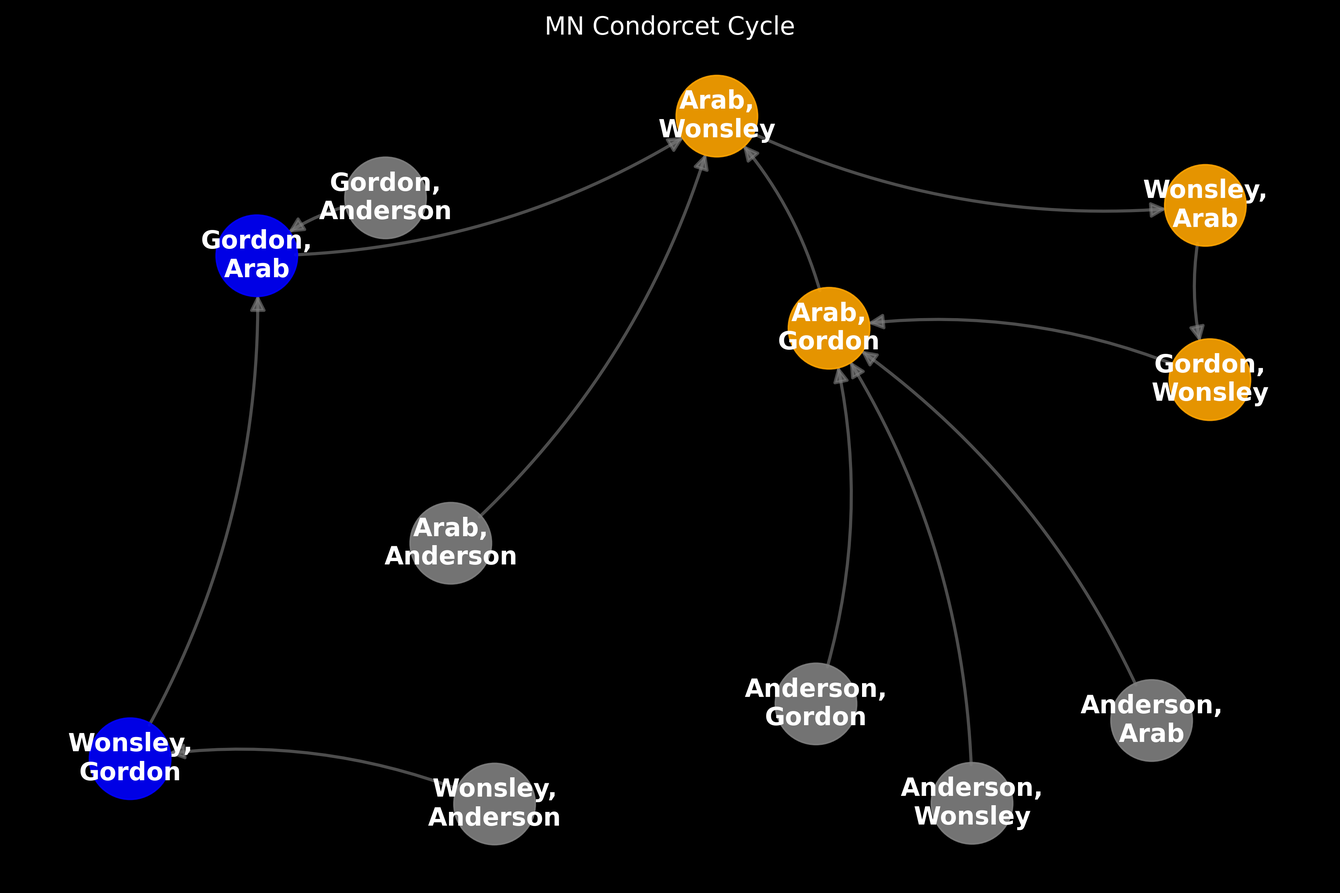
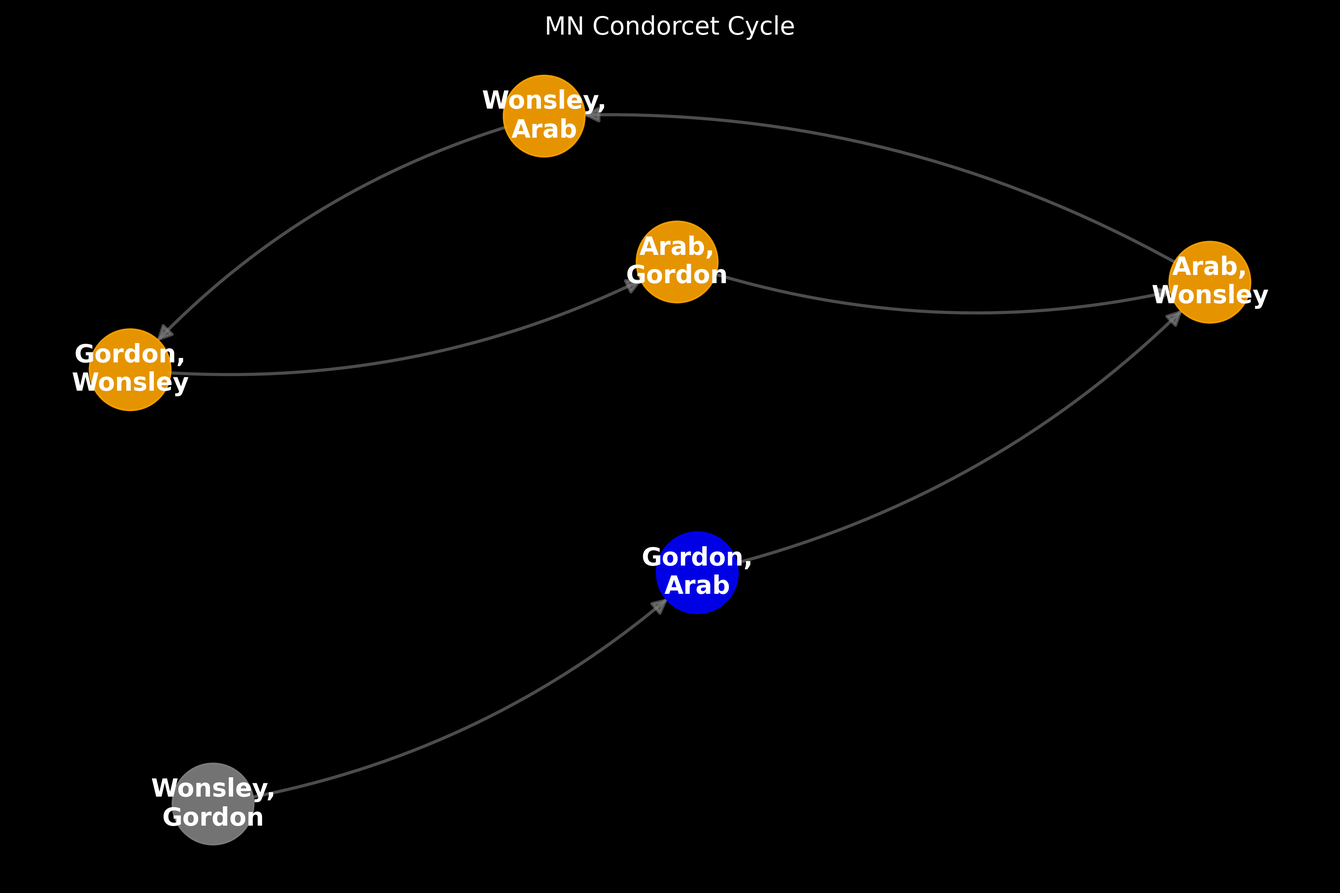
Expand leader-rule draft with case studies and images
Revise leader-rule preview: add WIP note, attribution to Laslier, clarify definitions and assumptions, strengthen proofs, add new lemmas/corollaries and an appendix with a counterexample. Add detailed Case Studies (Alaska 2022, NYC 2025, Minneapolis 2021) with tables, graphs and discussion; clarify pairwise/CPRO notation and dynamics. Add new asset assets/img/leader_rule/alt_profile.png and update assets/img/leader_rule/mn.png to support the new examples and visuals.

diff --git a/_previews/2026-02-11-leader-dynamics.md b/_previews/2026-02-11-leader-dynamics.md
@@ -17,7 +17,7 @@ authors:
 toc:
   - name: Introduction
   - name: The Leader Rule
-  - name: A Practical Simulation 
+  - name: Case Studies
     subsections:
       - name: Alaska House Special Election 2022
       - name: NYC Democratic Mayoral Primary 2025
@@ -30,9 +30,11 @@ toc:
   - name: References
 ---
 
+WIP DRAFT (not finished)
+
 ## Introduction
 
-The Leader Rule is a strategy under approval voting where voters choose their sincere strategy based on who the perceived frontrunners are:
+The Leader Rule is a strategy under approval voting by Jean-François Laslier where voters choose their sincere strategy based on who the perceived frontrunners are:
 
 > **The Leader Rule**: Call the candidate perceived most likely to win the "leader", and the second most likely candidate to win the "challenger". The leader rule strategy is as follows:
 >
@@ -41,7 +43,7 @@ The Leader Rule is a strategy under approval voting where voters choose their si
 
 We will not delve into the weeds of why this is an optimal strategy, but our analysis focuses on what happens when every voter applies the leader rule simultaneously.
 
-**Definition**: We denote the percentage of voters who prefer X>Y as $$P(X>Y)$$. Note that $$P(Y>X)=1-P(X>Y)$$.
+**Definition**: We denote the proportion of voters who prefer X>Y as $$P(X>Y)$$, as a shorthand for $$P(X>Y|\text{profile})$$. Note that $$P(Y>X)=1-P(X>Y)$$.
 
 For our axioms of this analysis, we assume
 
@@ -49,9 +51,11 @@ For our axioms of this analysis, we assume
 2. Voters always use sincere strategies. That is, if they prefer candidate X over Y, then whenever they approve candidate Y, they must approve candidate X.
 3. Voters have common knowledge of the perceived front-runners. That is, every voter knows who the leader and challenger are perceived to be.
 4. Every voter applies the leader rule simultaneously.
-5. No two pairwise match-ups have the same margin. That is, for any two pairs of candidates, $$(X_1, Y_1) \neq (X_2, Y_2)$$, then $$P(X_1>Y_1)\neq P(X_2>Y_2)$$.
+5. No two pairwise match-ups have the same margin, and no two candidates tie. That is, for any two pairs of candidates, $$(X_1, Y_1) \neq (X_2, Y_2)$$, then $$P(X_1>Y_1)\neq P(X_2>Y_2)$$, and $$P(X_1>Y_1)\neq 0.5$$. In a "large electorate",  which is the setting Laslier focuses on in his paper, this is a reasonable assumption, since the probability of ties goes to zero as the number of voters increases.
 
 We identify the set of possible leader challenger pairs $$(X,Y)$$, where $$X\neq Y$$, as state nodes. We can imagine them as what the polls say prior to an election. We investigate the nature of how one node moves to another.
+
+Note that Theorems 1 and 2 are adapted from Laslier's original paper. The rest of the theorems and lemmas are new so far as I know.
 
 **Theorem 1:** Suppose the leader, challenger pair is (X,Y). After every voter applies the leader rule, the candidates will have the following percent approvals:
 
@@ -67,7 +71,7 @@ Note that for any candidate X, after every voter applies the leader rule, the pe
 
 **Definition:** a unique Condorcet winner is a candidate who strictly defeats every other candidate in pairwise comparisons. That is, if X is a unique Condorcet winner, then for every other candidate Z, $$P(X>Z) > 0.5$$. Thus, $$P(Z>X) < 0.5$$ for all $$Z \neq X$$. A Condorcet loser is a candidate who is strictly defeated by every other candidate in pairwise comparisons.
 
-**Lemma 1:** If X is a unique Condorcet winner, then after every voter applies the leader rule, X will always have over 50% of the vote. Further, if the X is the leader, then X will still be the leader after every voter applies the leader rule.
+**Lemma 1:** If X is a unique Condorcet winner, then after every voter applies the leader rule, X will always have over 50% of the vote. Further, if the X is the leader and a unique Condorcet winner, then X will still be the leader after every voter applies the leader rule.
 
 **Proof:** As the unique Condorcet winner, $$P(X>Z) > 0.5$$ for all $$Z \neq X$$. Since the percent of votes X gets must be some $$P(X>Z)$$ for some candidate Z, then X must receive over 50% of the vote.
 
@@ -75,25 +79,52 @@ Suppose that X is the leader and Y is the challenger. Since $$P(Z>X)<0.5$$ for a
 
 **Theorem 2:** (X,Y) is an equilibrium if and only if X is a unique Condorcet winner and Y is the candidate with the best pairwise matchup against X.
 
-**Proof:** By the lemma, if X is a unique Condorcet winner, then X will remain the leader after every voter applies the leader rule. Therefore, we know that (X,Y) has an edge to (X,Y') for some Y' such that the votes $$P(Y'>X) > P(Z>X)$$ for all $$Z \notin\{X,Y'\}$$. That is, Y' must have the best pairwise matchup against X. Therefore, if Y is the candidate with the best pairwise matchup against X, then (X,Y) is an equilibrium. For uniqueness, we use our assumption that no two pairwise match-ups have the same margin, so there must be one unique Y' with the best pairwise matchup. For any other $$Y\neq Y'$$, we must have that $$P(Y>X) < P(Y'>X)$$, meaning (X,Y) must have an edge to (X,Y'). Therefore, it is the only equilibrium. QED
+**Proof:** By the lemma, if X is a unique Condorcet winner, then X will remain the leader after every voter applies the leader rule. Therefore, we know that (X,Y) has an edge to (X,Y') for some Y' such that the votes $$P(Y'>X) > P(Z>X)$$ for all $$Z \notin\{X,Y'\}$$. That is, Y' must have the best pairwise matchup against X. Therefore, if Y is the candidate with the best pairwise matchup against X, then (X,Y) is an equilibrium.
 
-**Definition:** We define the set of "Leader Rule Outcome Nodes" to be the nodes with at least one edge to them. We call the candidates who are the leader in at least one Leader Rule Outcome Node to be a "Leader Rule Outcome".
+Suppose now that (X,Y) is an equilibrium. Then we must have that $$P(X>Y) > P(Y>X) > P(Z>X)$$ for all $$Z \neq X$$. Since $$P(X>Y) > 0.5 > P(Y>X)$$, we must have that $$P(Z>X) < 0.5$$ for all $$Z \neq X$$, meaning X is a unique Condorcet winner. Since $$P(Y>X) > P(Z>X)$$ for all $$Z \notin\{X,Y\}$$, we must have that Y is the candidate with the best pairwise matchup against X. QED
+
+**Corollary 1:** If there is no unique Condorcet winner, then there is no equilibrium.
+
+In this case, there must instead be a cycle of nodes, where each node has an edge to another node, and the last node has an edge back to the first node. There is no stable leader-challenger pair in this case, however, the election must still occur eventually. We focus on the general dynamics of the leader rule to make conclusions about the possible outcomes in this case.
 
 **Lemma 2:** If every voter applies the leader rule, then at least one candidate will have more than 50% of the vote.
 
-**Proof:** If there exists a unique Condorcet winner, then by the previous lemma, that candidate will have over 50% of the vote after every voter applies the leader rule. If there is no unique Condorcet winner, then there must exist some candidate Z who defeats the leader X in a pairwise match-up: $$P(Z>X)>0.5>P(X>Z)$$. Therefore, Z will have more than 50% of the vote. QED
+**Proof:** If there exists a unique Condorcet winner, then by the previous lemma, that candidate will have over 50% of the vote after every voter applies the leader rule. If there is no unique Condorcet winner, then there must exist some candidate Z who defeats the leader X in a pairwise match-up: $$P(Z>X)>0.5>P(X>Z)$$. Therefore, Z will have more than 50% of the vote after every voter applies the leader rule. QED
 
 **Lemma 3:** If X is a Condorcet loser, then X will never be the leader after all voters apply the leader rule. Further, X will always have less than 50% of the vote.
 
-**Proof:** If X is a Condorcet loser, then $$P(X>Z) < 0.5$$ for all $$Z \neq X$$, and thus X will always have less than 50% of the votes. By the previous lemma, some candidate must have over 50% of the vote, and will thus have more votes than X. Therefore, X will not be the leader.
+**Proof:** If X is a Condorcet loser, then $$P(X>Z) < 0.5$$ for all $$Z \neq X$$, and thus X will always have less than 50% of the votes by Theorem 1. By the previous lemma, some candidate must have over 50% of the vote, and will thus have more votes than X. Therefore, X will not be the leader.
 
-**Corollary 1:** If X is a unique Condorcet winner, then X is a Leader Rule Outcome. If X is a Condorcet loser, then X is not a Leader Rule Outcome.
+These two lemmas do tell us something important: even if there is a cycle of preferences, when the elections finally comes around and voters apply the leader rule, we can guarantee that
 
-**Proof:** By the previous theorem, we know that (X,Y) is an equilibrium if and only if X is a unique Condorcet winner and Y is the candidate with the best pairwise matchup against X. Therefore, if X is a unique Condorcet winner, there exists at least one equilibrium node, which has an edge to itself, where X is the leader, making X a Leader Rule Outcome. Conversely, if X is a Condorcet loser, by Lemma 3, X will never be the leader after all voters apply the leader rule, so X is not a Leader Rule Outcome. QED
+1. The winner will win with over 50% of the vote
+2. The winner won't be a Condorcet loser
+
+Further, due to the nature of the Approval ballot data, the winner is always the Condorcet winner  induced by the literal dichotomous preferences expressed by the voters. That is, since the difference in total approvals is the difference in "strict approvals", the winner must defeat all other candidates in strict approvals. Any Condorcet cycle will be invisible in the ballot data, and instead voters will only see a single candidate with the most approvals (over 50%), who is the Condorcet winner of the strict approvals.
+
+**Definition:** We define the set of "Leader Rule Outcome Nodes" to be the nodes with at least one edge to them. We call the candidates who are the leader in at least one Leader Rule Outcome Node to be a "Leader Rule Outcome".
+
+**Corollary 2:** If X is a unique Condorcet winner, then X is a Leader Rule Outcome. If X is a Condorcet loser, then X is not a Leader Rule Outcome.
+
+**Proof:** By theorem 2, we know that (X,Y) is an equilibrium if and only if X is a unique Condorcet winner and Y is the candidate with the best pairwise matchup against X. Therefore, if X is a unique Condorcet winner, there exists at least one equilibrium node, which has an edge to itself, where X is the leader, making X a Leader Rule Outcome. Conversely, if X is a Condorcet loser, by Lemma 3, X will never be the leader after all voters apply the leader rule, so X is not a Leader Rule Outcome. QED
+
+**Lemma 4:** Candidate X is a Leader Rule Outcome if and only if one of the following holds:
+
+1. X has a pairwise match-up against some candidate Y that is stronger than any pairwise match-up against X. That is, there exists some Y such that $$P(X>Y) > P(Z>X)$$ for all $$Z \neq X$$.
+2. X has the strongest pairwise match-up against some candidate $$Y \neq X$$, and that match-up is stronger than Y's match-up against some candidate $$Y'\neq Y$$. That is, there exists some Y such that $$P(X>Y) > P(Z>Y)$$ for all $$Z \neq X$$ and there exists some Y' such that $$P(X>Y) > P(Y>Y')$$ for some Y'.
+
+**Proof:** If condition 1 holds, then consider the node (X,Y). We have that $$P(X>Y) > P(Z>X)$$ for all $$Z \neq X$$, so X will have the most votes after every voter applies the leader rule, making X the leader. Note that condition 1 holds when X is a unique Condorcet winner, since $$P(X>Z) > 0.5 > P(Z>X)$$ for all $$Z \neq X$$. If condition 1 does not hold, then for all Y, there exists some Z such that $$P(Z>X) > P(X>Y)$$, meaning that (X,Y) cannot have an edge to any node where X is the leader. That is, no node where X is the leader can have an edge to a node where X is the leader.
+
+If condition 2 holds, then consider the node (Y,Y'). We have that $$P(X>Y) > P(Z>Y)$$ for all $$Z\notin\{X,Y\}$$, so X will have more votes than all candidates other than Y after every voter applies the leader rule. However, since $$P(X>Y) > P(Y>Y')$$, X will have more votes than Y as well, making X the leader. If condition 2 does not hold, then for all nodes where X is not the leader, (Y,Y') where $$Y \neq X$$, there exists some Z such that $$P(Z>Y) > P(X>Y)$$, meaning that (Y,Y') cannot have an edge to any node where X is the leader. That is, no node where X is not the leader can have an edge to a node where X is the leader. QED
+
+In short, we have essentially two archetypes for a candidate to be a Leader Rule Outcome:
+
+1. A candidate on the offense (TODO: is this the best intuitive phrasing?): they beat some candidate by a stronger margin than any candidate beats them. This is the case of a unique Condorcet winner, but it can also be the case for a non-Condorcet winner if they have a sufficiently strong match-up against some candidate.
+2. A candidate who strongly counters another candidate: they have the strongest match-up against some candidate, and that match-up is stronger than that candidate's match-up against some other candidate. Intuitively, this means that the electorate may have a strong "reaction" against some leader Y, and X is more strongly preferred to Y than Y is to whoever the challenger is.
 
 ## Pairwise Rankings
 
-**Definition:** A "Pairwise Ranked Ordering" is an ordered list: 1. $$X_1 > Y_1$$. 2. $$X_2>Y_2$$. etc. A "Coherent Pairwise Ranked Ordering" (CPRO) is one that does not contain contradictions. For example, if A>B is the strongest pairwise margin at the top of the list, then B>A must be the weakest, at the bottom of the list. More generally, if we have m total candidates, and a list of the $$\ell=m(m-1)$$ pairwise match-ups, then if item $$i$$ is $$X>Y$$, then $$Y>X$$ must be item $$\ell-i$$. Since a CPRO is uniquely determined by the first half of the list, we sometimes omit the second half for brevity.
+**Definition:** A "Pairwise Ranked Ordering" is an ordered list: 1. $$X_1 > Y_1$$. 2. $$X_2>Y_2$$. etc. A "Coherent Pairwise Ranked Ordering" (CPRO) is one that does not contain contradictions. For example, if A>B is the strongest pairwise margin at the top of the list, then B>A must be the weakest, at the bottom of the list. More generally, if we have m total candidates, and a list of the $$\ell=m(m-1)$$ pairwise match-ups, then if item $$i$$ is $$X>Y$$, then $$Y>X$$ must be item $$\ell-i+1$$. Since a CPRO is uniquely determined by the first half of the list, we sometimes omit the second half for brevity.
 
 **Theorem 3:** The graph of state nodes is determined uniquely by the ranked ordering of pairwise match-up strengths (the CPRO).
 
@@ -155,6 +186,8 @@ In total, this gives
 - BCA: 3 voters
 - CAB: 5 voters
 
+In summary, this tells us that we can analyze the possible graphs by instead considering the possible CPROs.
+
 **Definition:** We define the pairwise matrix such that entry (i,j) represents the number of voters who prefer candidate i over candidate j. We define the diagonal entries to be zero.
 
 The pair-wise matrix for the above profile is as follows: Entry the row candidate is the one preferred over the column candidate.
@@ -176,7 +209,7 @@ Let us apply the algorithm on the CPRO to determine the edges of the graph, for 
 5. A>C
 6. B>A
 
-Let us consider the (A,B) node. We look for A>B or X>A, since A is the leader. We see that the first entry is A>B, so A will be the leader. The second entry is C>A, so C will be the challenger.
+Let us consider the (A,B) node. We look for A>B or X>A, since A is the leader. We see that the first entry is A>B, so A will be the leader. The second entry is C>A, so C will be the challenger. Thus, (A,B) has an edge to (A,C).
 
 **Theorem 5:** The pairwise matrix can be used to determine the precise votes or percents that each candidate will get after voters apply the leader rule at a particular node.
 
@@ -212,9 +245,119 @@ If we have a leader who is not D, then at least one candidate will have a strong
 
 In particular, we can see that there will be a cycle (A,D) to (C,D) to (B,D) and back to (A,D). QED
 
+<img src="/assets/img/leader_rule/alt_profile.png" alt="Leader Rule Non-Convergence Example" style="max-width: 600px;">
+
+## Case Studies
+
+We shall analyze three elections using ranked.vote pairwise data, to see what the leader rule dynamics would have looked like in those elections. The percentages are based on the head-to-head matchups of voters who expressed a preferences, which may not extend to the entire electorate. For example, in the 2025 NYC election, a large proportion of voters who voted for Cuomo bullet voted for him, and thus did not express a preference between Zohran Mamdani and Brad Lander. Therefore, the nearly 70% head-to-head result for Mamdani vs. Lander may not be representative of the entire electorate, but rather only of the subset of voters who expressed a preference between those two candidates. However, we use a simplifying assumption that the head-to-head results are representative of the entire electorate, to get a rough picture of the leader rule dynamics in these elections, along with the other axioms we have laid out in the introduction.
+
+### Alaska House Special Election 2022
+
+[ranked.vote page for this election](https://ranked.vote/report/us/ak/2022/08/cd){:target="_blank"}.
+
+Alaska's 2022 House Special Election was a controversial election where the IRV winner, Mary Peltola, was not the Condorcet winner, and lost to the Condorcet winner, Nick Begich III, in a head-to-head match-up. The third candidate, Sarah Palin, was the Condorcet loser. The election was widely seen as a failure of IRV, and led to a backlash against IRV in Alaska, with the state failing to repeal it by only about 700 voters out of over 320,000 votes cast in the 2024 ballot measure. Another repeal effort is currently underway in 2026.
+
+An aspect of the pathology was the uninutive vote splitting and spoiler effect that occured between the Republican candidates. The voters who sincerely voted for Palin first and Begich second managed to get themselves their least preferred candidate, Peltola, elected. By voting first for Palin, the Condorcet loser, they kept her in the race long enough to eliminate the only viable Republican candidate, Begich.
+
+Using the head-to-head results from Alaska 2022, we can simulate the leader rule. The head-to-head results were:
+
+| Head-to-Head       | Winner      | Percentage    |
+|--------------------|-------------|---------------|
+| Begich vs. Palin   | Begich      | 61.4% : 38.6% |
+| Begich vs. Peltola | Begich      | 52.5% : 47.5% |
+| Peltola vs. Palin  | Peltola     | 51.4% : 48.6% |
+
+Based on the results above, Palin's Condorcet loser status would have made it impossible for her to win under the leader rule, even if she had been the perceived leader. Further, Begich's strong head-to-heads against both Palin and Peltola would have given him an extremely strong pull. In fact, he is the only Leader Rule Outcome. If every voter applied the leader rule, and these head to heads extend to the entire electorate, Begich would be the only candidate who could have won.
+
+The directed graph of leader-challenger pairs is as follows:
+
+<img src="/assets/img/leader_rule/alaska.png" alt="Leader Rule Alaska 2022" style="max-width: 600px;">
+
+Here is how to read this graph:
+
+- A node like "Peltola, Palin" represents the scenario where Peltola is the leader and Palin is the challenger. This node points to the red node "Begich, Peltola", which means that if all voters enter the voting booth expecting Peltola to be the leader, and see Palin as the challenger, then after everyone applies the leader rule, the final result will have Begich in first place and Peltola in second place.
+- Similarly, the node "Peltola, Begich" actually points to the "Begich, Palin" node, meaning that if everyone expects Peltola to be the leader and Begich to be the challenger, then after everyone applies the leader rule in the voting booth, the final result will have Begich in first place and Palin in second place. Peltola actually falls to third place in this scenario, because Begich's head-to-head against Peltola was stronger than Palin's head-to-head against Peltola, which was stronger than Peltola's head-to-head against Begich.
+- A node is colored red if it is an equilibrium (it points to itself), and blue if any nodes have an edge to it (it is a Leader Rule Outcome Node), but is not an equilibrium.
+
+The equilibrium has Begich as the leader and Peltola as the challenger. This is consistent with Begich being the Condorcet winner, and Peltola having the best head-to-head result against Begich.
+
+Notice that after any starting point, Begich becomes the leader. However, interestingly, in the case where Peltola is the leader and Begich is the challenger, the next iteration has Begich as the leader and Palin as the challenger. This is because Palin's head-to-head against Peltola was stronger than Peltola's head-to-head against Begich. Therefore, if Peltola was the leader, and Begich the challenger, and every voter voted using the leader rule, the result would actually have the leader come in last place in approval percentage.
+
+However, this does mean that, potentially, in the case where Palin is the leader, a Democratic voter who prefers Peltola and Begich to Palin should approve of both Peltola and Begich, to help push Palin down (even if Peltola is the challenger). But the result *would*, under this analysis, be a Begich victory. Would this cause "regret" among Democratic voters? It is hard to say for sure, especially because the ballot data we have seems to indicate that Palin would have done quite poorly in an Approval election.
+
+But suppose we assume poor quality polls, that had the Condorcet loser Palin as the leader, and then suppose that Begich won (as his Condorcet winner status would make very likely to have done by over 60%), then from their perspective, they would have successfully prevented Palin from winning. This was their primary goal, and a Palin victory appeared to be the most likely outcome.
+
+If the voter went into the voting booth expecting Palin to win, voted for both Peltola and Begich, and then Begich won with over 60% and Peltola in second place with 51%, they might feel satisfied that they prevented Palin from winning. And such a strong victory for Begich would make it difficult to second guess their strategy. It would simply look like *both* Peltola and Begich were broadly acceptable to the electorate, that Palin was not, but that Begich was the most preferred candidate overall. This would be a strong majoritarian outcome, unlikely to fuel the massive repeal efforts that have plagued Alaska in the years since the 2022 Condorcet failure of IRV there in 2024 and now again in 2026.
+
+### NYC Democratic Mayoral Primary 2025
+
+[ranked.vote page for this election](https://ranked.vote/report/us/ny/nyc/2025/07/mayor){:target="_blank"}.
+
+Here we reduce the field to the top four candidates: Zohran Mamdani, Brad Lander, Andrew Cuomo, and Adrienne Adams. In the actual election, Cuomo was seen as the leader, with Mamdani as the main challenger. Lander and Adams were seen as long-shot candidates.
+
+The head-to-head results were:
+
+| Head-to-Head        | Winner      | Percentage    |
+|---------------------|-------------|---------------|
+| Mamdani vs. Adams   | Mamdani     | 74.8% : 25.2% |
+| Lander vs. Adams    | Lander      | 72.7% : 27.3% |
+| Mamdani vs. Lander  | Mamdani     | 69.6% : 30.4% |
+| Mamdani vs. Cuomo   | Mamdani     | 56.4% : 43.6% |
+| Lander vs. Cuomo    | Lander      | 54.4% : 45.6% |
+| Adams vs. Cuomo     | Adams       | 50.3% : 49.7% |
+
+We can see that, in fact, the perceived leader Cuomo was actually a Condorcet loser, while the perceived challenger Mamdani was the Condorcet winner. Lander was a strong contender, with strong head-to-head results against both Cuomo and Adams, but was not the Condorcet winner due to his weaker head-to-head against Mamdani. Adams, while narrowly beating Cuomo head-to-head, was not perceived as a particularly strong candidate, and had very weak head-to-head results against both Mamdani and Lander.
+
+The two leader rule outcomes are Mamdani and Lander, with Mamdani being the equilibrium, as the Condorcet winner. Lander is a Leader Rule Outcome because of his strong head-to-head against Adams. The node with Lander as the leader and Adams as the challenger has an edge to the node with Lander as the leader and Mamdani as the challenger, since Lander's head-to-head against Adams is stronger than Mamdani's head-to-head against Lander. However, the plausibility of this node being the perception of voters is extremely low, since Adams was perceived as a very weak candidate. Therefore, it's extremely likely that Mamdani would win in any reasonable perception of the race, assuming voters vote strategically using the leader rule and the head-to-head results extend to the entire electorate.
+
+The directed graph of leader-challenger pairs is as follows:
+
+<img src="/assets/img/leader_rule/nyc.png" alt="Leader Rule NYC 2025" style="max-width: 600px;">
+
+We see the red equilibrium node with Mamdani as the leader and Cuomo as the challenger, and two other blue Leader Rule Outcome Nodes: (Lander, Mamdani) and (Mamdani, Lander).
+
+### Minneapolis City Council Ward 2 2021
+
+[ranked.vote page for this election](https://ranked.vote/report/us/mn/2021/11/ward-2){:target="_blank"}.
+
+This was a very notable election because it actually had a Condorcet cycle. The cycle was between Cam Gordon, Robin Wonsley, and Yusra Arab. The actual winner was Robin Wonsley, who defeated Yusra Arab in the final round of IRV. However, Cam Gordon beat Robin Wonsley head-to-head, and Yusra Arab beat Cam Gordon head-to-head, creating a Condorcet cycle.
+
+The head-to-head results were:
+
+| Head-to-Head         | Winner      | Percentage    |
+|----------------------|-------------|---------------|
+| Arab vs. Gordon      | Arab        | 51.3% : 48.7% |
+| Gordon vs. Wonsley   | Gordon      | 50.5% : 49.5% |
+| Wonsley vs. Arab     | Wonsley     | 50.1% : 49.9% |
+
+There was a fourth and fifth candidate who was not competitive, so we will omit them from this analysis. The directed graph of leader-challenger pairs is as follows:
+
+<img src="/assets/img/leader_rule/mn.png" alt="Leader Rule Minneapolis 2021" style="max-width: 600px;">
+
+We color the cycle in orange. There is no equilibrium in this case, due to the Condorcet cycle. But we have two other blue outcome nodes involving Gordon that eventually lead into the cycle.
+
+Observe the four-node cycle between Wonsley, Arab, and Gordon:
+
+| Leader | Challenger | Approvals | Target |
+|--------|------------|-----------|--------|
+| Arab | Wonsley | Wonsley: 50.1%, Arab: 49.9%, Gordon: 48.7% | (Wonsley, Arab) |
+| Wonsley | Arab | Gordon: 50.5%, Wonsley: 50.1%, Arab: 49.9% | (Gordon, Wonsley) |
+| Gordon | Wonsley | Arab: 51.3%, Gordon: 50.5%, Wonsley: 49.5% | (Arab, Gordon) |
+| Arab | Gordon | Arab: 51.3%, Wonsley: 50.1%, Gordon: 48.7% | (Arab, Wonsley) |
+
+If we interpret nodes as possible perceptions of the race, and suppose voters update their strategy based on the leader rule when they answer a poll, then we would basically see a cycle like this:
+
+- Week 1: Voters think Wonsley is the leader, Arab is the challenger. They update their strategies and answer the next poll.
+- Week 2: Gordon shoots up to be the leader, since he has the strongest head-to-head against Wonsley. Wonsley falls to challenger, and Arab falls out of the top two (and under 50%), since Wonsley beats Arab and that match-up decides the next approval percentages.
+- Week 3: Arab shoots up to be the leader, since she has the strongest head-to-head against Gordon. Gordon falls to challenger, and Wonsley falls out of the top two like Arab did last week.
+- Week 4: Arab remains the leader, but Wonsley shoots up to be the challenger, since she has the strongest head-to-head against Arab. Arab's strong head-to-head against Gordon keeps Arab in first place.
+- Week 5: Wonsley becomes the leader again, since she has the strongest head-to-head against Arab. Arab falls to challenger, and Gordon falls out of the top two again. And now we're back to week 1.
+
+If we were to imagine this happening in a campaign cycle, we would still eventually have to run the election at some point. And depending on who the perceived leader and challenger are at that moment, we would end up with one of the three candidates winning. Since Approval voting is consistent with its ballot data, the actual winner would be the Condorcet winner of the implied preferences expressed by the ballots, flattening out the cycle. The ballots won't catch fire, the machines won't explode, and no loser will be able to credibly claim they would have beaten the actual winner in a head-to-head match-up, because the ballots won't show that. The result will be legitimate, but close. Someone will get over 50% approvals, and
+
 ## Discussion
 
-What we can see from these theorems and results is that the leader rule leads to strongly majoritarian outcomes. At least one candidate will have over 50%, including the Condorcet winner if they exist. While the Condorcet winner may not be the final winner, the winner is always the candidate whom the voters most strongly prefer over the expected outcome. That is, the outcome is always either the same or strictly better, to the collective voters, than the expectation of voters going into the voting booth.
+What we can see from these theorems and results is that the leader rule leads to strongly majoritarian outcomes. At least one candidate will have over 50%, including the Condorcet winner if they exist. While the Condorcet winner may not be the final winner, the winner is always the candidate whom the voters most strongly prefer over the expected outcome. That is, the outcome is always either the same or strictly better, to the collective voters, than the expectation of voters going into the voting booth. Further, the actual winner will have a mandate of over 50% approvals.
 
 ### The Chicken Dilemma Explored
 
@@ -238,6 +381,115 @@ It should be acknowledged, however, that this is not any sort of guarantee that 
 ## Other Considerations and Further Research
 
 Some considerations must be made to the plausibility or realism of the axioms. For one, this analysis does not take into account sincere voters who do not adjust their acceptability line strategically. It also does allow for the possibility that some voters may not agree on the perceived leader and challenger. In our increasingly divisive media bubbles, the perception of a race to one bloc of voters could be significantly different from another.
+
+## Appendix
+
+Here is an example where the Leader rule does not converge to the Condorcet winner: (Credit to Rob LeGrand)
+
+| Voter Type     | Count |
+|----------------|-------|
+| A>B>C>D        | 17    |
+| A>D>C>B        | 17    |
+| B>C>A>D        | 21    |
+| C>B>A>D        | 18    |
+| D>B>C>A        | 13    |
+| D>C>A>B        | 14    |
+
+Total voters: 100
+
+The head-to-head results are:
+
+| Head-to-Head| Winner | Percentage |
+|-------------|--------|------------|
+| B vs. A     | B      | 52% : 48%  |
+| B vs. C     | B      | 51% : 49%  |
+| B vs. D     | B      | 56% : 44%  |
+| A vs. D     | A      | 73% : 27%  |
+| D vs. C     | D      | 61% : 39%  |
+| C vs. A     | C      | 66% : 34%  |
+
+The Condorcet winner is B, and there is an equilibrium under the leader rule with B as the leader and C as the challenger:
+
+| Candidate | Approval Percentage (Equilibrium) |
+|-----------|-----------------------------------|
+| B         | 51%                               |
+| C         | 49%                               |
+| A         | 48%                               |
+| D         | 44%                               |
+
+However, unless the initial leader is B, the leader rule does not converge to B. Instead, it will settle into a cycle where B is always the challenger, but never the leader.
+
+| Leader | Challenger | Next Leader | Next Challenger  |
+|--------|------------|-------------|------------------|
+| A (73%)| B (56%)    | C (66%)     | B (52%)          |
+| C (66%)| B (52%)    | D (61%)     | B (51%)          |
+| D (61%)| B (51%)    | A (73%)     | B (56%)          |
+
+The key observation is that while B is the Condorcet winner, we have a cycle among A, C, and D where each one has a very strong head-to-head win against one of the others, allowing B to stay perpetually above 50% approval as the challenger, but never becoming the leader.
+
+Here is a graph of the leader-challenger pairs in this example:
+
+<img src="/assets/img/leader_rule/island.png" alt="Leader Rule Non-Convergence Example" style="max-width: 600px;">
+
+We can see that if B is the initial leader, we converge to the equilibrium in one step (colored red). However, otherwise we get stuck in the cycle between A, C, and D (colored orange).
+
+---
+
+Here are the full tables for the three example elections analyzed above.
+
+### Alaska House Special Election 2022 Table
+
+| Leader | Challenger | Approvals | Target |
+|--------|------------|-----------|--------|
+| Peltola | Begich | Begich: 52.5%, Palin: 48.6%, Peltola: 47.5% | (Begich, Palin) |
+| Peltola | Palin | Begich: 52.5%, Peltola: 51.4%, Palin: 48.6% | (Begich, Peltola) |
+| Begich | Peltola | Begich: 52.5%, Peltola: 47.5%, Palin: 38.6% | (Begich, Peltola) |
+| Begich | Palin | Begich: 61.4%, Peltola: 47.5%, Palin: 38.6% | (Begich, Peltola) |
+| Palin | Peltola | Begich: 61.4%, Peltola: 51.4%, Palin: 48.6% | (Begich, Peltola) |
+| Palin | Begich | Begich: 61.4%, Peltola: 51.4%, Palin: 38.6% | (Begich, Peltola) |
+
+### NYC Democratic Mayoral Primary 2025 Table
+
+| Leader | Challenger | Approvals | Target |
+|--------|------------|-----------|--------|
+| Mamdani | Cuomo | Mamdani: 56.4%, Cuomo: 43.6%, Lander: 30.4%, Adams: 25.2% | (Mamdani, Cuomo) |
+| Mamdani | Lander | Mamdani: 69.6%, Cuomo: 43.6%, Lander: 30.4%, Adams: 25.2% | (Mamdani, Cuomo) |
+| Mamdani | Adams | Mamdani: 74.8%, Cuomo: 43.6%, Lander: 30.4%, Adams: 25.2% | (Mamdani, Cuomo) |
+| Cuomo | Mamdani | Mamdani: 56.4%, Lander: 54.4%, Adams: 50.3%, Cuomo: 43.6% | (Mamdani, Lander) |
+| Cuomo | Lander | Mamdani: 56.4%, Lander: 54.4%, Adams: 50.3%, Cuomo: 45.6% | (Mamdani, Lander) |
+| Cuomo | Adams | Mamdani: 56.4%, Lander: 54.4%, Adams: 50.3%, Cuomo: 49.7% | (Mamdani, Lander) |
+| Lander | Mamdani | Mamdani: 69.6%, Cuomo: 45.6%, Lander: 30.4%, Adams: 27.3% | (Mamdani, Cuomo) |
+| Lander | Cuomo | Mamdani: 69.6%, Lander: 54.4%, Cuomo: 45.6%, Adams: 27.3% | (Mamdani, Lander) |
+| Lander | Adams | Lander: 72.7%, Mamdani: 69.6%, Cuomo: 45.6%, Adams: 27.3% | (Lander, Mamdani) |
+| Adams | Mamdani | Mamdani: 74.8%, Lander: 72.7%, Cuomo: 49.7%, Adams: 25.2% | (Mamdani, Lander) |
+| Adams | Cuomo | Mamdani: 74.8%, Lander: 72.7%, Adams: 50.3%, Cuomo: 49.7% | (Mamdani, Lander) |
+| Adams | Lander | Mamdani: 74.8%, Lander: 72.7%, Cuomo: 49.7%, Adams: 27.3% | (Mamdani, Lander) |
+
+### Minneapolis City Council Ward 2 2021 Table
+
+| Leader | Challenger | Approvals | Target |
+|--------|------------|-----------|--------|
+| Wonsley | Arab | Gordon: 50.5%, Wonsley: 50.1%, Arab: 49.9%, Anderson: 36.2% | (Gordon, Wonsley) |
+| Wonsley | Gordon | Gordon: 50.5%, Arab: 49.9%, Wonsley: 49.5%, Anderson: 36.2% | (Gordon, Arab) |
+| Wonsley | Anderson | Wonsley: 63.8%, Gordon: 50.5%, Arab: 49.9%, Anderson: 36.2% | (Wonsley, Gordon) |
+| Arab | Wonsley | Wonsley: 50.1%, Arab: 49.9%, Gordon: 48.7%, Anderson: 26.7% | (Wonsley, Arab) |
+| Arab | Gordon | Arab: 51.3%, Wonsley: 50.1%, Gordon: 48.7%, Anderson: 26.7% | (Arab, Wonsley) |
+| Arab | Anderson | Arab: 73.3%, Wonsley: 50.1%, Gordon: 48.7%, Anderson: 26.7% | (Arab, Wonsley) |
+| Gordon | Wonsley | Arab: 51.3%, Gordon: 50.5%, Wonsley: 49.5%, Anderson: 35.5% | (Arab, Gordon) |
+| Gordon | Arab | Arab: 51.3%, Wonsley: 49.5%, Gordon: 48.7%, Anderson: 35.5% | (Arab, Wonsley) |
+| Gordon | Anderson | Gordon: 64.5%, Arab: 51.3%, Wonsley: 49.5%, Anderson: 35.5% | (Gordon, Arab) |
+| Anderson | Wonsley | Arab: 73.3%, Gordon: 64.5%, Wonsley: 63.8%, Anderson: 36.2% | (Arab, Gordon) |
+| Anderson | Arab | Arab: 73.3%, Gordon: 64.5%, Wonsley: 63.8%, Anderson: 26.7% | (Arab, Gordon) |
+| Anderson | Gordon | Arab: 73.3%, Gordon: 64.5%, Wonsley: 63.8%, Anderson: 35.5% | (Arab, Gordon) |
+
+The cycle, in particular, is between the nodes:
+
+| Leader | Challenger | Approvals | Target |
+|--------|------------|-----------|--------|
+| Arab | Wonsley | Wonsley: 50.1%, Arab: 49.9%, Gordon: 48.7%, Anderson: 26.7% | (Wonsley, Arab) |
+| Wonsley | Arab | Gordon: 50.5%, Wonsley: 50.1%, Arab: 49.9%, Anderson: 36.2% | (Gordon, Wonsley) |
+| Gordon | Wonsley | Arab: 51.3%, Gordon: 50.5%, Wonsley: 49.5%, Anderson: 35.5% | (Arab, Gordon) |
+| Arab | Gordon | Arab: 51.3%, Wonsley: 50.1%, Gordon: 48.7%, Anderson: 26.7% | (Arab, Wonsley) |
 
 ## References
 
